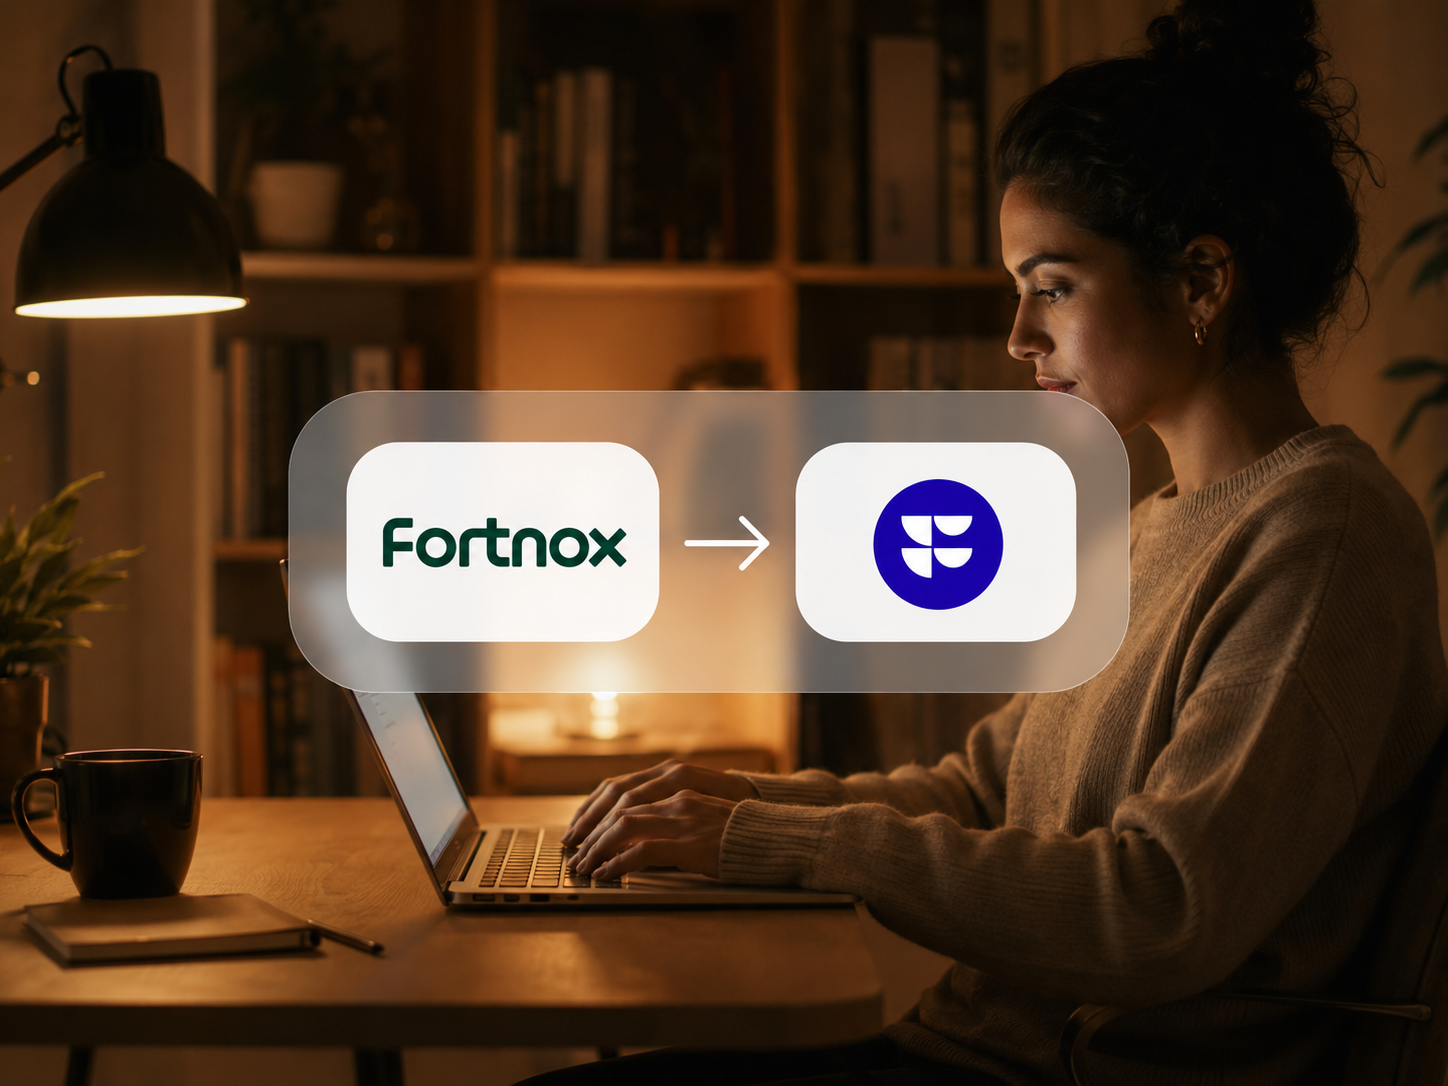
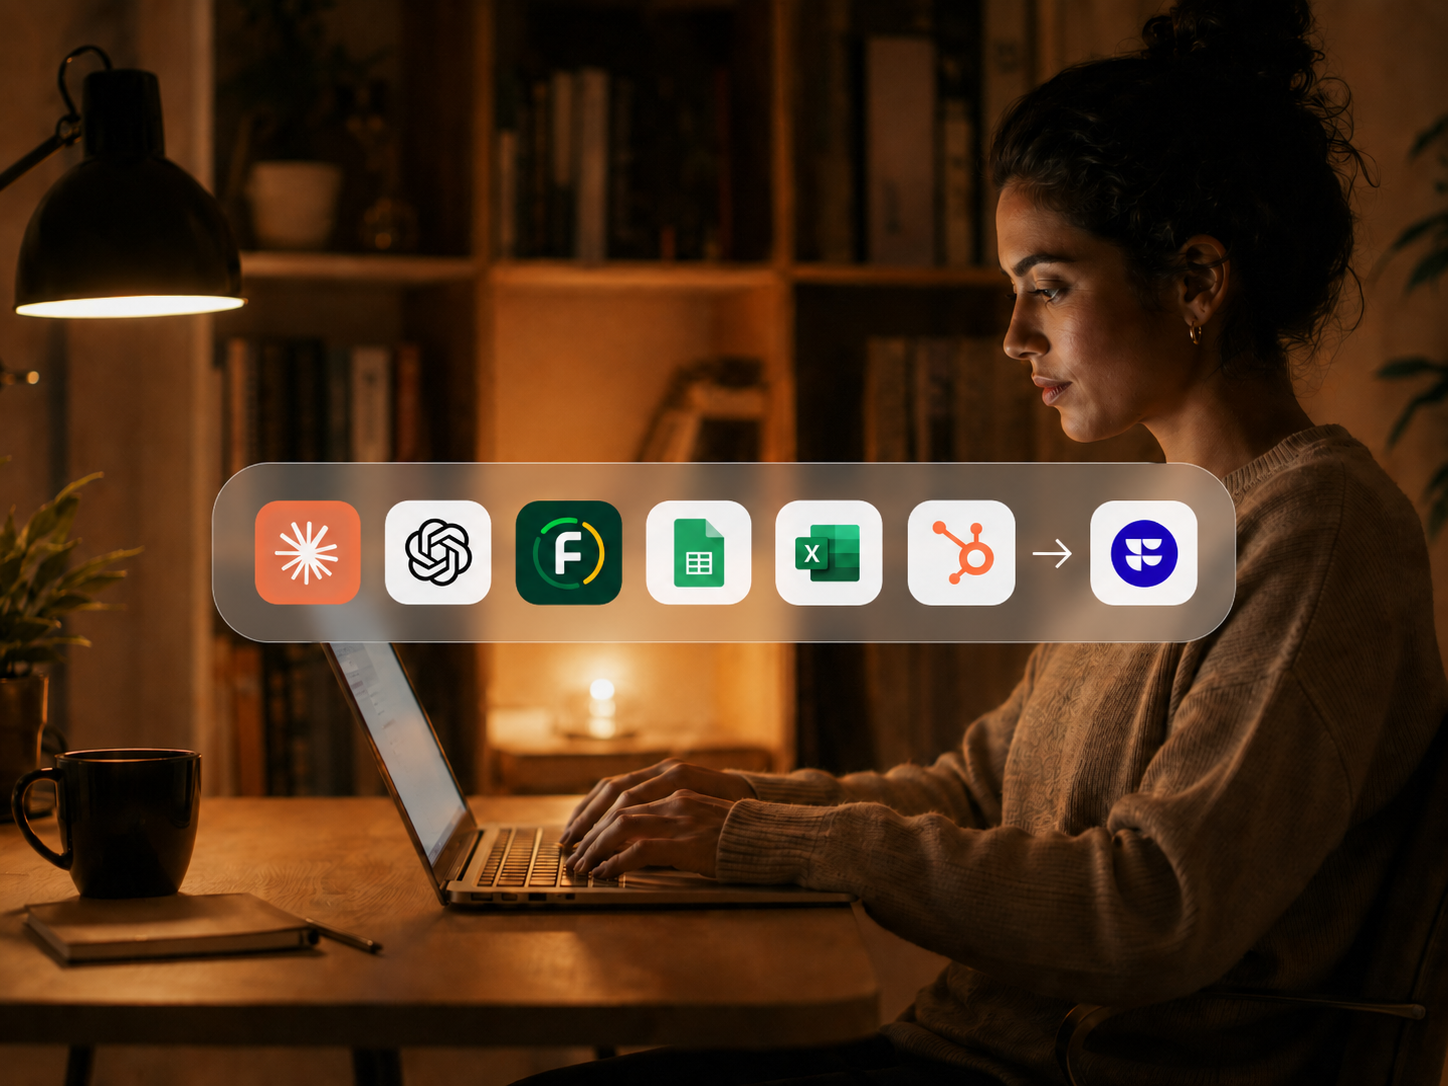
Rework integration section: imply many systems, not just Fortnox
Generalize the workspace section so it reads as "we connect to the
tools you already use" rather than naming bank/Skatteverket/Fortnox.
New heading, generalized body, and a workspace photo with a row of
app icons (Claude, ChatGPT, Fortnox, Sheets, Excel, HubSpot) feeding
into MinCFO.

diff --git a/src/components/v2/landing/MincfoLanding.tsx b/src/components/v2/landing/MincfoLanding.tsx
@@ -147,7 +147,7 @@ export default function MincfoLanding() {
                   och samma plattform.
                 </p>
                 <a className="btn" href="/boka-samtal">
-                  Boka samtal
+                  Boka demo
                 </a>
               </div>
             </div>
@@ -271,11 +271,12 @@ export default function MincfoLanding() {
             <div>
               <span className="eyebrow">Koppla system &amp; behörigheter</span>
               <h2 className="workspace-title">
-                Kopplad till <em>Fortnox.</em>
+                Integrerad med systemen <em>ni använder.</em>
               </h2>
               <p className="workspace-body">
-                Ni ger oss åtkomst till bank, Skatteverket och Fortnox/övriga
-                system. MinCFO kopplas in som er gemensamma dashboard.
+                Ni ger oss säker åtkomst till verktygen ni redan använder. MinCFO
+                kopplas in ovanpå och blir er gemensamma dashboard — utan att ni
+                byter något.
               </p>
               <div style={{ height: 24 }}></div>
               <a className="text-link" href="/produkter/helhetslosningen#how">
@@ -294,7 +295,7 @@ export default function MincfoLanding() {
             <div className="workspace-photo">
               <img
                 src="/v2/assets/workspace-photo.png"
-                alt="Person vid laptop med Fortnox till MinCFO"
+                alt="Person vid laptop med MinCFO kopplat till sina system"
               />
             </div>
           </div>
@@ -779,7 +780,7 @@ export default function MincfoLanding() {
 
               <div className="cta-lead">
                 <a className="cta-lead-btn" href="/boka-samtal">
-                  Boka samtal
+                  Boka demo
                   <svg width="13" height="13" viewBox="0 0 12 12" aria-hidden="true">
                     <path
                       stroke="currentColor"
